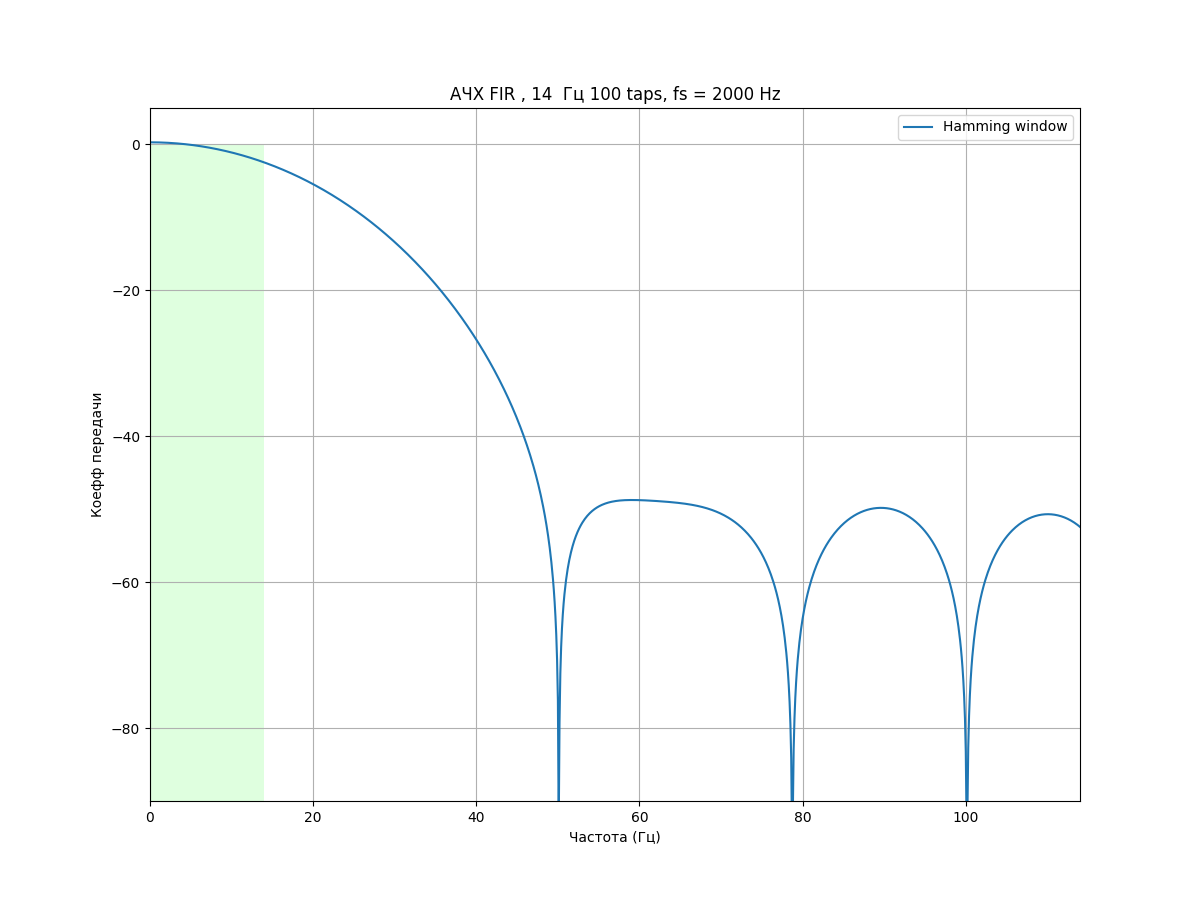
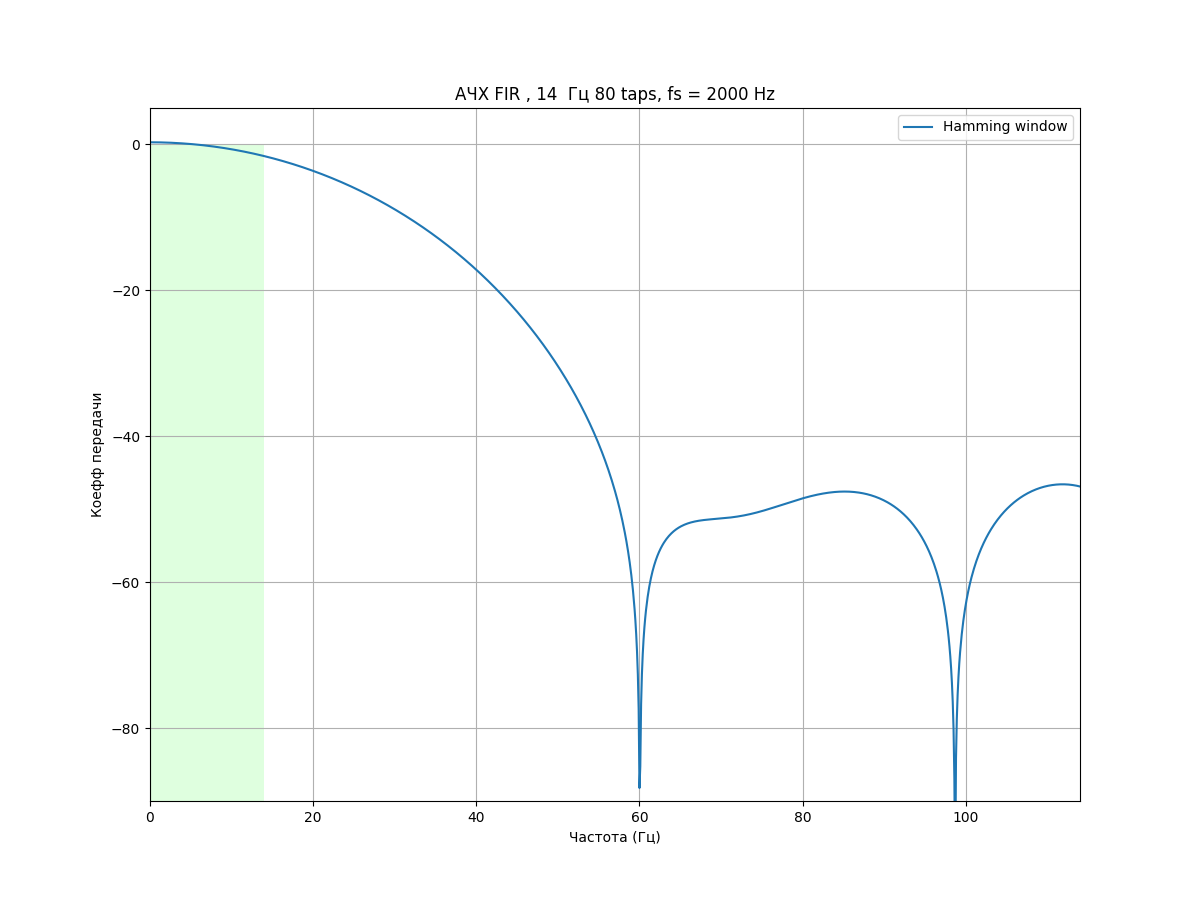
переделки в герцеле

diff --git a/Trc3_tx_mes_low/src/gen_filters/Headers/FIR_14_2000L.h b/Trc3_tx_mes_low/src/gen_filters/Headers/FIR_14_2000L.h
@@ -1,23 +1,20 @@
 #ifndef __FIR_14L_H__
 #define __FIR_14L_H__
 
-#define LENGTH_FIR_14L    100
+#define LENGTH_FIR_14L    80
 
 static fract16 fir14coeffL[LENGTH_FIR_14L] =
 {
-     20,     22,     24,     26,     29,     33,     38,     44,
-     50,     58,     66,     76,     86,     98,    110,    124,
-    139,    154,    171,    188,    207,    226,    246,    267,
-    288,    309,    331,    354,    376,    399,    421,    444,
-    466,    487,    508,    529,    549,    567,    585,    602,
-    618,    632,    645,    656,    666,    675,    682,    687,
-    690,    692,    692,    690,    687,    682,    675,    666,
-    656,    645,    632,    618,    602,    585,    567,    549,
-    529,    508,    487,    466,    444,    421,    399,    376,
-    354,    331,    309,    288,    267,    246,    226,    207,
-    188,    171,    154,    139,    124,    110,     98,     86,
-     76,     66,     58,     50,     44,     38,     33,     29,
-     26,     24,     22,     20
+     37,     39,     43,     48,     54,     63,     73,     85,
+    100,    116,    134,    154,    176,    199,    224,    251,
+    279,    308,    339,    370,    402,    434,    466,    499,
+    531,    563,    594,    624,    652,    680,    705,    729,
+    750,    769,    786,    801,    812,    821,    827,    830,
+    830,    827,    821,    812,    801,    786,    769,    750,
+    729,    705,    680,    652,    624,    594,    563,    531,
+    499,    466,    434,    402,    370,    339,    308,    279,
+    251,    224,    199,    176,    154,    134,    116,    100,
+     85,     73,     63,     54,     48,     43,     39,     37
 };
 
 #endif

diff --git a/Trc3_tx_mes_low/src/FIR_models/FIR_14.py b/Trc3_tx_mes_low/src/FIR_models/FIR_14.py
@@ -1,17 +1,14 @@
-#LENGTH_FIR_14 Hz 100 taps
+#LENGTH_FIR_14 Hz 80 taps
 #fs =  2000 Hz
 f_14 = [
-     20,     22,     24,     26,     29,     33,     38,     44,
-     50,     58,     66,     76,     86,     98,    110,    124,
-    139,    154,    171,    188,    207,    226,    246,    267,
-    288,    309,    331,    354,    376,    399,    421,    444,
-    466,    487,    508,    529,    549,    567,    585,    602,
-    618,    632,    645,    656,    666,    675,    682,    687,
-    690,    692,    692,    690,    687,    682,    675,    666,
-    656,    645,    632,    618,    602,    585,    567,    549,
-    529,    508,    487,    466,    444,    421,    399,    376,
-    354,    331,    309,    288,    267,    246,    226,    207,
-    188,    171,    154,    139,    124,    110,     98,     86,
-     76,     66,     58,     50,     44,     38,     33,     29,
-     26,     24,     22,     20
+     37,     39,     43,     48,     54,     63,     73,     85,
+    100,    116,    134,    154,    176,    199,    224,    251,
+    279,    308,    339,    370,    402,    434,    466,    499,
+    531,    563,    594,    624,    652,    680,    705,    729,
+    750,    769,    786,    801,    812,    821,    827,    830,
+    830,    827,    821,    812,    801,    786,    769,    750,
+    729,    705,    680,    652,    624,    594,    563,    531,
+    499,    466,    434,    402,    370,    339,    308,    279,
+    251,    224,    199,    176,    154,    134,    116,    100,
+     85,     73,     63,     54,     48,     43,     39,     37
 ]

diff --git a/Trc3_tx_mes_low/src/gen_filters/FIR_models/FIR_14.py b/Trc3_tx_mes_low/src/gen_filters/FIR_models/FIR_14.py
@@ -1,17 +1,14 @@
-#LENGTH_FIR_14 Hz 100 taps
+#LENGTH_FIR_14 Hz 80 taps
 #fs =  2000 Hz
 f_14 = [
-     20,     22,     24,     26,     29,     33,     38,     44,
-     50,     58,     66,     76,     86,     98,    110,    124,
-    139,    154,    171,    188,    207,    226,    246,    267,
-    288,    309,    331,    354,    376,    399,    421,    444,
-    466,    487,    508,    529,    549,    567,    585,    602,
-    618,    632,    645,    656,    666,    675,    682,    687,
-    690,    692,    692,    690,    687,    682,    675,    666,
-    656,    645,    632,    618,    602,    585,    567,    549,
-    529,    508,    487,    466,    444,    421,    399,    376,
-    354,    331,    309,    288,    267,    246,    226,    207,
-    188,    171,    154,    139,    124,    110,     98,     86,
-     76,     66,     58,     50,     44,     38,     33,     29,
-     26,     24,     22,     20
+     37,     39,     43,     48,     54,     63,     73,     85,
+    100,    116,    134,    154,    176,    199,    224,    251,
+    279,    308,    339,    370,    402,    434,    466,    499,
+    531,    563,    594,    624,    652,    680,    705,    729,
+    750,    769,    786,    801,    812,    821,    827,    830,
+    830,    827,    821,    812,    801,    786,    769,    750,
+    729,    705,    680,    652,    624,    594,    563,    531,
+    499,    466,    434,    402,    370,    339,    308,    279,
+    251,    224,    199,    176,    154,    134,    116,    100,
+     85,     73,     63,     54,     48,     43,     39,     37
 ]

diff --git a/Trc3_tx_mes_low/src/gen_filters/main.py b/Trc3_tx_mes_low/src/gen_filters/main.py
@@ -14,13 +14,13 @@ fs_MOD = 100  # частота дискретизации
 
 #-ФНЧ после когерентного детектора
 LPF_cut = 14  # частота среза
-ntaps_LPF = 100  # порядок фильтра
+ntaps_LPF = 80  # порядок фильтра
 fs_LPF = 2000  # частота дискретизации
 
 BPF_IN = 600  # центральная частота входного фильтра
-BAND_BPF_IN = 440  # полоса пропускания фильтра
-ntaps_BPF_IN = 50  # порядок фильтра
-fs_BPF_IN = 2000  # частота дискреизации
+BAND_BPF_IN = 460  # полоса пропускания фильтра
+ntaps_BPF_IN = 45  # порядок фильтра
+fs_BPF_IN = 2000  # частота дискретизации
 
 #--------------------------------------------------------------------------
 res = []
@@ -59,6 +59,6 @@ plot_fr2(taps_LPF, LPF_cut, ntaps_LPF, fs_LPF, 'L')  # графики АЧХ
 
 os.system("rm -rf ../FIR_models/")
 os.system("cp -R ./FIR_models/  ../FIR_models/")
-#os.system("xviewer ./Graphics/")
+os.system("xviewer ./Graphics/")
 
 print(time.time() - start_time, "seconds")

diff --git a/Trc3_tx_mes_low/src/gen_filters/Headers/FIR_600_2000.h b/Trc3_tx_mes_low/src/gen_filters/Headers/FIR_600_2000.h
@@ -1,17 +1,16 @@
 #ifndef __FIR_600_H__
 #define __FIR_600_H__
 
-#define LENGTH_FIR_600    50
+#define LENGTH_FIR_600    45
 
 static fract16 fir600coeff[LENGTH_FIR_600] =
 {
-     37,    -36,      0,    -78,     83,     85,    -49,      0,
-   -332,    268,    194,     64,      0,  -1003,    620,    251,
-    697,      0,  -2529,   1216,    -79,   3577,      0, -11288,
-   8299,   8299, -11288,      0,   3577,    -79,   1216,  -2529,
-      0,    697,    251,    620,  -1003,      0,     64,    194,
-    268,   -332,      0,    -49,     85,     83,    -78,      0,
-    -36,     37
+     11,    -13,     97,    -37,    -61,    -53,    -81,    400,
+   -102,     16,   -456,   -315,   1021,   -104,    743,  -1789,
+   -840,   1681,    371,   4459,  -8215,  -4243,  15073,  -4243,
+  -8215,   4459,    371,   1681,   -840,  -1789,    743,   -104,
+   1021,   -315,   -456,     16,   -102,    400,    -81,    -53,
+    -61,    -37,     97,    -13,     11
 };
 
 #endif

diff --git a/Trc3_tx_mes_low/src/FIR_models/FIR_600.py b/Trc3_tx_mes_low/src/FIR_models/FIR_600.py
@@ -1,11 +1,10 @@
-#LENGTH_FIR_600 Hz 50 taps
+#LENGTH_FIR_600 Hz 45 taps
 #fs =  2000 Hz
 f_600 = [
-     37,    -36,      0,    -78,     83,     85,    -49,      0,
-   -332,    268,    194,     64,      0,  -1003,    620,    251,
-    697,      0,  -2529,   1216,    -79,   3577,      0, -11288,
-   8299,   8299, -11288,      0,   3577,    -79,   1216,  -2529,
-      0,    697,    251,    620,  -1003,      0,     64,    194,
-    268,   -332,      0,    -49,     85,     83,    -78,      0,
-    -36,     37
+     11,    -13,     97,    -37,    -61,    -53,    -81,    400,
+   -102,     16,   -456,   -315,   1021,   -104,    743,  -1789,
+   -840,   1681,    371,   4459,  -8215,  -4243,  15073,  -4243,
+  -8215,   4459,    371,   1681,   -840,  -1789,    743,   -104,
+   1021,   -315,   -456,     16,   -102,    400,    -81,    -53,
+    -61,    -37,     97,    -13,     11
 ]

diff --git a/Trc3_tx_mes_low/src/gen_filters/FIR_models/FIR_600.py b/Trc3_tx_mes_low/src/gen_filters/FIR_models/FIR_600.py
@@ -1,11 +1,10 @@
-#LENGTH_FIR_600 Hz 50 taps
+#LENGTH_FIR_600 Hz 45 taps
 #fs =  2000 Hz
 f_600 = [
-     37,    -36,      0,    -78,     83,     85,    -49,      0,
-   -332,    268,    194,     64,      0,  -1003,    620,    251,
-    697,      0,  -2529,   1216,    -79,   3577,      0, -11288,
-   8299,   8299, -11288,      0,   3577,    -79,   1216,  -2529,
-      0,    697,    251,    620,  -1003,      0,     64,    194,
-    268,   -332,      0,    -49,     85,     83,    -78,      0,
-    -36,     37
+     11,    -13,     97,    -37,    -61,    -53,    -81,    400,
+   -102,     16,   -456,   -315,   1021,   -104,    743,  -1789,
+   -840,   1681,    371,   4459,  -8215,  -4243,  15073,  -4243,
+  -8215,   4459,    371,   1681,   -840,  -1789,    743,   -104,
+   1021,   -315,   -456,     16,   -102,    400,    -81,    -53,
+    -61,    -37,     97,    -13,     11
 ]

diff --git a/Trc3_tx_mes_low/src/krl_rec.py b/Trc3_tx_mes_low/src/krl_rec.py
@@ -28,9 +28,6 @@ class krl_receiver(object):
         self.am_det_inp = am_det_coherent(fc, fs)
         self.comp8 = comparator(tr * 1.6, tr, 5)  #comparator 8Hz
         self.comp12 = comparator(tr * 1.6, tr, 5)  #comparator 12Hz
-        self.comp_sn = comparator(30, 20, 5)  #comparator sn unit
-        self.sn_8filt = mean_filt(30)
-        self.sn_12filt = mean_filt(30)
         self.filt_8hz = mean_filt(25)
         self.filt_12hz = mean_filt(25)
         self.s_a = spectr_analyzer()

diff --git a/Trc3_tx_mes_low/src/main.py b/Trc3_tx_mes_low/src/main.py
@@ -1,5 +1,4 @@
 from time import *
-from time import sleep
 from prep_model import *
 from krl_rec import *
 from plot2 import *
